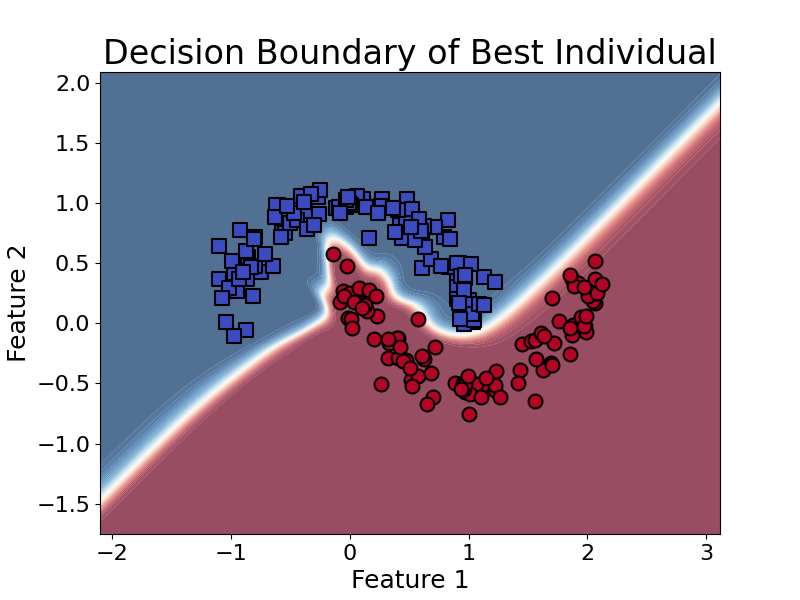
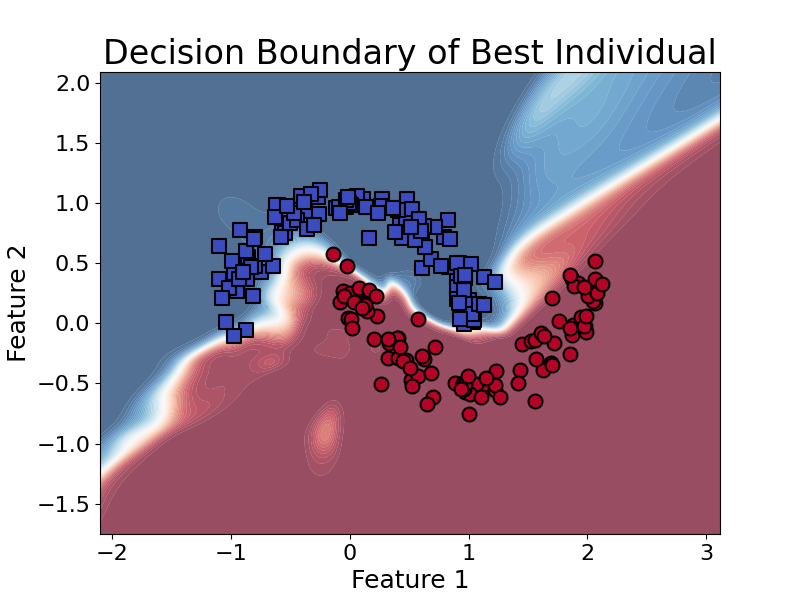
removed masking from discrete mutations, mutation_std should be tuned appropriately so that probability density in the range [-0.5,0.5] is equal to the 'mutation rate'

Changed region(s): [[0.125, 0.12, 0.9062, 0.87], [0.375, 0.66, 0.4375, 0.78]]

diff --git a/precisions.py b/precisions.py
@@ -48,24 +48,11 @@ class i8:
     # then rounded to nearest integer before casting to int8
     def mutate(self, x):
         mutations = torch.randn_like(x, dtype=torch.float32, device=x.device) * self.std
-        mutations[mutations > 0] += 1
-        mutations[mutations < 0] -= 1
         mutated = torch.round(x + mutations)
         # Round to nearest integer first
         # Clamp to int8 range [-128, 127] before casting to int8
         mutated_clamped = torch.clamp(mutated, -128, 127)
         return mutated_clamped.to(torch.int8)
-
-    def initializer(self, shape):
-        # Initialize with Xavier uniform and quantize to int8
-        weight = torch.empty(shape, dtype=torch.float32)
-        torch.nn.init.xavier_uniform_(weight)
-        # Quantize to signed 8-bit integers
-        max_val = weight.abs().max()
-        scale = max_val / (2**(8-1) - 1)  # Scale for int8 [-128, 127]
-        weight_q = torch.round(weight / scale)
-        weight_q = torch.clamp(weight_q, -128, 127)
-        return weight_q.to(torch.int8)
 
 class i4:    
 
@@ -87,22 +74,9 @@ class i4:
     # then rounded to nearest integer before clamping and casting to int8
     def mutate(self, x):
         mutations = torch.randn_like(x, dtype=torch.float32, device=x.device) * self.std
-        mutations[mutations > 0] += 1
-        mutations[mutations < 0] -= 1
         mutated = torch.round(x + mutations)
         mutated_clamped = torch.clamp(mutated, -8, 7)
         return mutated_clamped.to(torch.int8)
-
-    def initializer(self, shape):
-        # Initialize with Xavier uniform and quantize to int4
-        weight = torch.empty(shape, dtype=torch.float32)
-        torch.nn.init.xavier_uniform_(weight)
-        # Quantize to signed 4-bit integers [-8, 7]
-        max_val = weight.abs().max()
-        scale = max_val / (2**(4-1) - 1)  # Scale for int4 [-8, 7]
-        weight_q = torch.round(weight / scale)
-        weight_q = torch.clamp(weight_q, -8, 7)
-        return weight_q.to(torch.int8)
 
 class i2:
     def __init__(self, std=1):
@@ -124,22 +98,9 @@ class i2:
     # then rounded to nearest integer before clamping and casting to int8
     def mutate(self, x):
         mutations = torch.randn_like(x, dtype=torch.float32, device=x.device) * self.std
-        mutations[mutations > 0] += 1
-        mutations[mutations < 0] -= 1
         mutated = torch.round(x + mutations)
         mutated_clamped = torch.clamp(mutated, -2, 1)
         return mutated_clamped.to(torch.int8)
-
-    def initializer(self, shape):
-        # Initialize with Xavier uniform and quantize to int2
-        weight = torch.empty(shape, dtype=torch.float32)
-        torch.nn.init.xavier_uniform_(weight)
-        # Quantize to signed 2-bit integers [-2, 1]
-        max_val = weight.abs().max()
-        scale = max_val / (2**(2-1) - 1)  # Scale for int2 [-2, 1]
-        weight_q = torch.round(weight / scale)
-        weight_q = torch.clamp(weight_q, -2, 1)
-        return weight_q.to(torch.int8)
 
 class binary:
     def __init__(self, std=0):

diff --git a/mga.py b/mga.py
@@ -8,11 +8,10 @@ import torch
 from MLP import MLP
 
 class MGA:
-    def __init__(self, population_size, num_generations, mutation_rate, deme_size=None):
+    def __init__(self, population_size, num_generations, deme_size=None):
         self.population_size = population_size
         self.num_generations = num_generations
-        self.mutation_rate = mutation_rate
-        self.deme_size = deme_size if deme_size is not None else self.population_size // 8
+        self.deme_size = deme_size if deme_size is not None else self.population_size
         self.population = []
         self.generation = 0
         self.best_individual = None
@@ -29,7 +28,7 @@ class MGA:
             self.population.append(model)
             self.population[-1].evaluate(x, y, f)
 
-    def tournament(self, x, y, f, mutation_rate, test=False):
+    def tournament(self, x, y, f, test=False):
 
         A = torch.randint(0, self.population_size, (1,))[0].item()
         B = (A + 1 + torch.randint(0, self.deme_size-1, (1,))[0].item()) % self.population_size
@@ -41,7 +40,7 @@ class MGA:
             L = A
 
         self.population[L].load_state_dict(self.population[L].crossover(self.population[W].state_dict()))
-        self.population[L].load_state_dict(self.population[L].mutate(mutation_rate))
+        self.population[L].load_state_dict(self.population[L].mutate())
         self.population[L].evaluate(x, y, f)
         t = None
         if test:

diff --git a/two_moons.py b/two_moons.py
@@ -28,15 +28,14 @@ shapes = [2, 64, 64, 1]
 activation = torch.tanh
 output_activation = lambda x: x
 precision = 'i2'
-bias_std = 1
-mutation_std = 0.01
+bias_std = 0.1
+mutation_std = 0.3
 scale_std = 0.
 
 # Initialize MGA
 population_size = 10
 num_generations = 1000
-mutation_rate = 0 # Defaults to 1/num_parameters
-mga = MGA(population_size, num_generations, mutation_rate, population_size)
+mga = MGA(population_size, num_generations, population_size)
 
 # Initialize population
 mga.initialize_population(shapes, activation, output_activation, precision, bias_std, mutation_std, scale_std, x_train, y_train, torch.nn.BCEWithLogitsLoss())
@@ -50,7 +49,7 @@ for generation in range(num_generations):
     best_fitness = float('-inf')
     for i in range(population_size):
         # Tournament selection and evolution
-        fitness, t = mga.tournament(x_train, y_train, torch.nn.BCEWithLogitsLoss(), mutation_rate)
+        fitness, t = mga.tournament(x_train, y_train, torch.nn.BCEWithLogitsLoss())
         if fitness > best_fitness:
             best_fitness = fitness
 
@@ -100,9 +99,6 @@ def plot_decision_boundary(model, X, y, ax):
 plot_decision_boundary(final_best_individual, X_train, y_train, ax)
 plt.savefig(f'decision_boundary_final_{precision}.png')
 plt.close()
-
-
-
 
 # Plot fitness history
 plt.plot(torch.Tensor(best_fitness_history).detach().numpy())

diff --git a/MNIST.py b/MNIST.py
@@ -54,9 +54,8 @@ scale_std = 0.1
 # Initialize MGA
 population_size = 100
 num_generations = 1000
-mutation_rate = 0 # Defaults to 1/num_parameters
 BATCH_SIZE = 1000
-mga = MGA(population_size, num_generations, mutation_rate, population_size)
+mga = MGA(population_size, num_generations, population_size)
 
 # Initialize population
 mga.initialize_population(shapes, activation, output_activation, precision, bias_std, mutation_std, scale_std, x_train, y_train, torch.nn.CrossEntropyLoss())
@@ -69,7 +68,7 @@ for generation in range(num_generations):
     for i in range(population_size):
         # Tournament selection and evolution with random batch
         batch_indices = torch.randperm(len(x_train))[:BATCH_SIZE]
-        fitness, t = mga.tournament(x_train[batch_indices], y_train[batch_indices], torch.nn.CrossEntropyLoss(), mutation_rate, test=(x_test, y_test))
+        fitness, t = mga.tournament(x_train[batch_indices], y_train[batch_indices], torch.nn.CrossEntropyLoss(), test=(x_test, y_test))
         if fitness > best_fitness:
             best_fitness = fitness
             best_test = t

diff --git a/MLP.py b/MLP.py
@@ -132,8 +132,7 @@ class MLP(nn.Module):
         
         return crossover_state_dict
     
-    def mutate(self, mutation_rate=0):
-        if mutation_rate == 0: mutation_rate = 1/self.param_count
+    def mutate(self):
         state_dict = self.state_dict()
         # Perform mutation on a state dict
         mutated_state_dict = {}
@@ -148,12 +147,7 @@ class MLP(nn.Module):
             elif 'scale' in k:
                 op = self.scale_precision.mutate
                 P = self.precision.precision
-            if P == 'f32':
-                mask = torch.ones_like(state_dict[k].to(torch.float32))
-            else:
-                mask = torch.rand_like(state_dict[k].to(torch.float32)) < mutation_rate
-            mutated_state_dict[k] = state_dict[k]
-            mutated_state_dict[k][mask] = op(state_dict[k][mask])
+            mutated_state_dict[k] = op(state_dict[k])
         
         return mutated_state_dict
 
